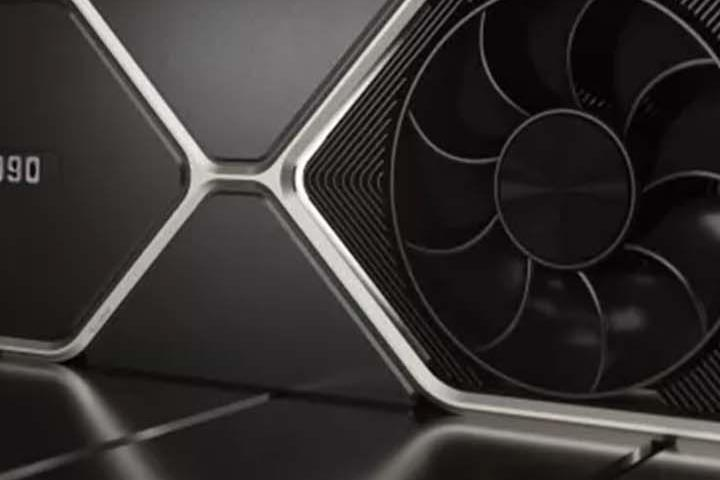
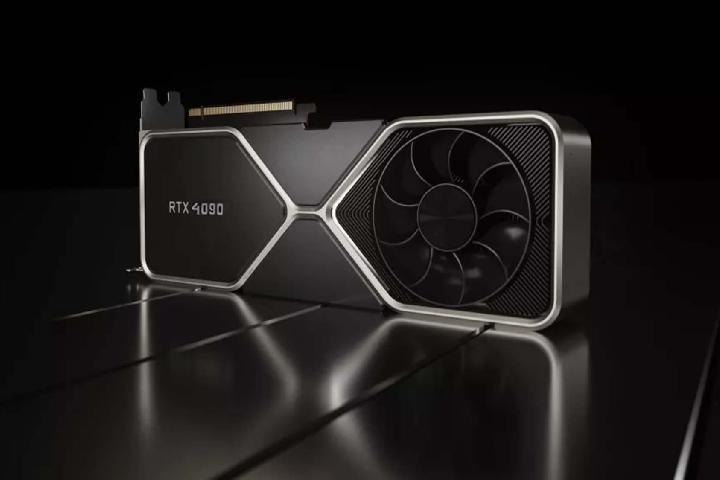
updated the upload process to be as losless (contentwise) as possible when resizing

diff --git a/components/upload.php b/components/upload.php
@@ -35,9 +35,26 @@ if (validateToken($conn)) {
                 if (list($width, $height) = getimagesize($target_file)) {
                     $new_width = 720;
                     $new_height = 480;
+                    $aspectRatio = $new_width / $new_height; // = 1.5 => width = height * 1.5 , height = width / 1.5
+
+                    //cut the biggest possible part of the picture with the right aspect ratio and compress to $new_* size
+                    //try to resize with max width
+                    if ($width / $height < $aspectRatio) {
+                        $cut_width = $width;
+                        $cut_height = $width / $aspectRatio;
+                        $src_x = 0;
+                        $src_y = ($height - $cut_height) / 2;
+                    } else {
+                        //resize with max height, if max width is not possible
+                        $cut_width = $height * $aspectRatio;
+                        $cut_height = $height;
+                        $src_x = ($width - $cut_width) / 2;
+                        $src_y = 0;
+                    }
+
                     $thumb = imagecreatetruecolor($new_width, $new_height);
                     $source = imagecreatefromjpeg($target_file);
-                    imagecopyresized($thumb, $source, 0, 0, $width / 2 - $new_width / 2, $height / 2 - $new_height / 2, $new_width, $new_height, $new_width, $new_height);
+                    imagecopyresized($thumb, $source, 0, 0, $src_x, $src_y, $new_width, $new_height, $cut_width, $cut_height);
                     imagejpeg($thumb, $target_thumbnail);
 
                     $sql = "INSERT INTO news_articles (title,content,sub,img_path) VALUES (?,?,?,?)";

diff --git a/HTML/news-articles.php b/HTML/news-articles.php
@@ -11,8 +11,7 @@ $articles = [
     [
         "id" => "2",
         "title" => "Neue Grafikkarten",
-        "sub" => "Für die beste performance und ein noch besserer Erlebnis haben wir ab jetzt
-            in allen PC's Nvidias RTX 4090er Grafikkarten eingebaut.",
+        "sub" => "Für die beste performance und ein noch besserer Erlebnis haben wir ab jetzt in allen PC's Nvidias RTX 4090er Grafikkarten eingebaut.",
         "imgpath" => "../Public/Images/rtx-4090.jpg",
         "content" => "Filler Text Filler Text Filler Text Filler Text Filler Text Filler Text<br>
             Filler Text Filler Text Filler Text Filler Text Filler Text Filler Text<br>

diff --git a/HTML/news.php b/HTML/news.php
@@ -35,13 +35,12 @@ closeConnection($conn);
   include(__DIR__ . '/../components/main_style.php');
   ?>
   <link rel="stylesheet" href="../css/news.css">
-  <link rel="stylesheet" href="/CSS/login-register.css" />
+  <link rel="stylesheet" href="../css/login-register.css" />
 </head>
 
 <body class="ghostwhite">
   <?php
   echo '<h1 class="text-center">News</h1>';
-  include(__DIR__ . '/../components/in_work.php');
   ?>
   <?php if ($_SESSION['logged'] == true): ?>
     <?php if ($user['rolle'] == "admin"): ?>

diff --git a/components/db_utils.php b/components/db_utils.php
@@ -10,6 +10,8 @@
 function connectDB()
 {
     //require_once('dbaccess.php');
+    //because this script is called from various file paths, dbaccess is currently hard-coded into this utility file
+    //a process calculating the needed path could be incorporated
     $servername = "localhost";
     $username = "gaminghotel";
     $password = "!*K8FdmqAe}#ZMb";
